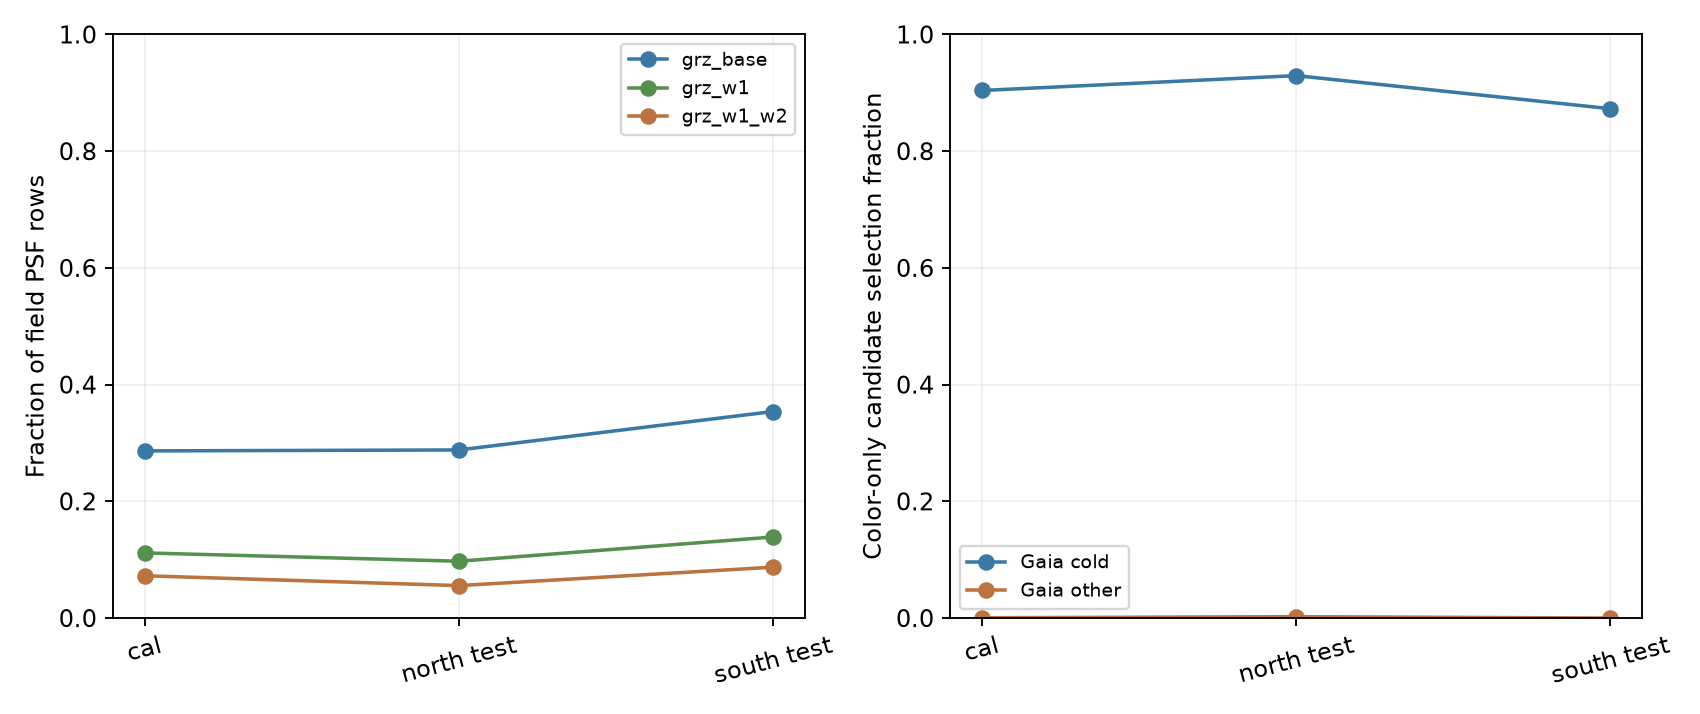
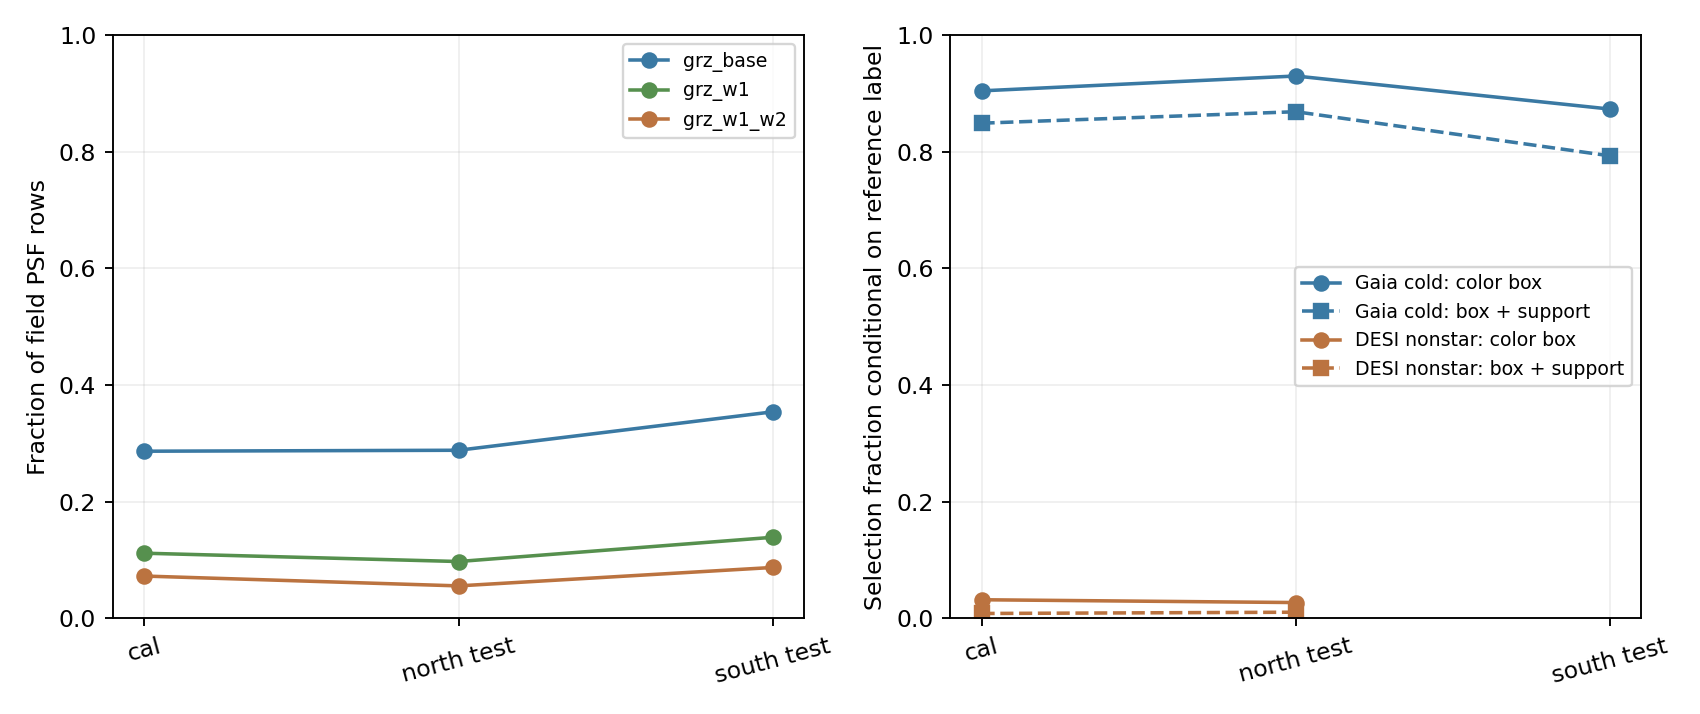
Clarify support and spectral label diagnostic figures

diff --git a/scripts/target_coverage.py b/scripts/target_coverage.py
@@ -2,6 +2,7 @@
 """Measure application input layers and a fixed color-only cold candidate rule."""
 from __future__ import annotations
 
+import argparse
 import json
 from pathlib import Path
 import socket
@@ -116,17 +117,7 @@ def field_result(name, path, rule, tree):
                 "DESI_known_nonstar_color_and_support_leakage": breakdown(nonstar, qualified)["fraction_selected"]}}
 
 
-def main():
-    require_compute()
-    if (OUT / "summary.json").exists():
-        raise FileExistsError(OUT / "summary.json")
-    rule, tree = fixed_rule()
-    summary = {"fixed_from_original_non_test_cold_anchors": rule,
-               "fields": {}, "compute_host": socket.gethostname()}
-    for name, path in FIELD_FILES.items():
-        summary["fields"][name] = field_result(name, path, rule, tree)
-        print(json.dumps({"field": name, **summary["fields"][name]}), flush=True)
-    OUT.mkdir(parents=True, exist_ok=True)
+def plot_summary(summary):
     FIG.mkdir(parents=True, exist_ok=True)
     fields = list(FIELD_FILES)
     labels = ["cal", "north test", "south test"]
@@ -137,20 +128,44 @@ def main():
         axes[0].plot(x, [summary["fields"][f]["input_layers"][key] /
                           summary["fields"][f]["domain_psf_rows"] for f in fields],
                      "o-", label=key, color=color)
-    for label, key, color in (("Gaia cold", "cold_dwarf", "#3a79a3"),
-                               ("Gaia other", "other", "#bb7340")):
-        axes[1].plot(x, [summary["fields"][f]["Gaia_reference"][key]["fraction_selected"]
-                          for f in fields], "o-", label=label, color=color)
+    for label, key, color, style in (
+            ("Gaia cold: color box", "Gaia_cold_color_box_recall", "#3a79a3", "o-"),
+            ("Gaia cold: box + support", "Gaia_cold_color_and_support_recall", "#3a79a3", "s--"),
+            ("DESI nonstar: color box", "DESI_known_nonstar_color_box_leakage", "#bb7340", "o-"),
+            ("DESI nonstar: box + support", "DESI_known_nonstar_color_and_support_leakage", "#bb7340", "s--")):
+        values = [summary["fields"][f]["selection_rates"][key] for f in fields]
+        axes[1].plot(x, [np.nan if v is None else v for v in values], style,
+                     label=label, color=color)
     for ax in axes:
         ax.set_xticks(x, labels, rotation=15)
         ax.set_ylim(0, 1)
         ax.grid(alpha=.2)
         ax.legend(fontsize=8)
     axes[0].set_ylabel("Fraction of field PSF rows")
-    axes[1].set_ylabel("Color-only candidate selection fraction")
+    axes[1].set_ylabel("Selection fraction conditional on reference label")
     fig.tight_layout()
     fig.savefig(FIG / "01_inputs_and_cold_candidate.png", dpi=170)
     plt.close(fig)
+
+
+def main():
+    parser = argparse.ArgumentParser(description=__doc__)
+    parser.add_argument("--plot-only", action="store_true")
+    args = parser.parse_args()
+    if args.plot_only:
+        plot_summary(json.loads(Path("manifests/target_coverage_v2.json").read_text()))
+        return
+    require_compute()
+    if (OUT / "summary.json").exists():
+        raise FileExistsError(OUT / "summary.json")
+    rule, tree = fixed_rule()
+    summary = {"fixed_from_original_non_test_cold_anchors": rule,
+               "fields": {}, "compute_host": socket.gethostname()}
+    for name, path in FIELD_FILES.items():
+        summary["fields"][name] = field_result(name, path, rule, tree)
+        print(json.dumps({"field": name, **summary["fields"][name]}), flush=True)
+    OUT.mkdir(parents=True, exist_ok=True)
+    plot_summary(summary)
     write_json(OUT / "summary.json", summary)
     write_json("manifests/target_coverage_v2.json", summary)
 

diff --git a/scripts/type_diagnostics.py b/scripts/type_diagnostics.py
@@ -2,6 +2,7 @@
 """Audit conditional cold-branch selection by DESI label, color and brightness."""
 from __future__ import annotations
 
+import argparse
 import json
 from pathlib import Path
 import socket
@@ -97,7 +98,41 @@ def field_summary(path, rule, tree):
     return result
 
 
+def plot_summary(summary):
+    FIG.mkdir(parents=True, exist_ok=True)
+    fig, ax = plt.subplots(figsize=(9, 4.5))
+    labels = ("DESI_cool_dwarf", "DESI_cool_giant", "DESI_known_nonstar")
+    x = np.arange(len(FIELDS), dtype=float)
+    for index, name in enumerate(labels):
+        points = [(j, summary["fields"][field]["labels"][name])
+                  for j, field in enumerate(FIELDS)]
+        points = [(j, value) for j, value in points if value["n_labeled"]]
+        px = np.array([j + (index - 1) * .10 for j, _ in points])
+        y = np.array([value["color_box_rate_given_label"] for _, value in points])
+        lower = np.array([value["color_box_rate_wilson95"][0] for _, value in points])
+        upper = np.array([value["color_box_rate_wilson95"][1] for _, value in points])
+        ax.errorbar(px, y, yerr=[y - lower, upper - y], fmt="o", capsize=3,
+                    label=name.replace("DESI_", "").replace("_", " "))
+        for xx, yy, (_, value) in zip(px, y, points):
+            ax.annotate(f'n={value["n_labeled"]}', (xx, yy), xytext=(3, 4),
+                        textcoords="offset points", fontsize=7)
+    ax.set_xticks(x, list(FIELDS))
+    ax.set_ylim(0, 1)
+    ax.set_ylabel("P(color-box selected | DESI label)")
+    ax.grid(alpha=.2)
+    ax.legend(fontsize=8)
+    fig.tight_layout()
+    fig.savefig(FIG / "01_class_conditional_box_rates.png", dpi=170)
+    plt.close(fig)
+
+
 def main():
+    parser = argparse.ArgumentParser(description=__doc__)
+    parser.add_argument("--plot-only", action="store_true")
+    args = parser.parse_args()
+    if args.plot_only:
+        plot_summary(json.loads(Path("manifests/type_diagnostics_dev.json").read_text()))
+        return
     require_compute()
     if (OUT / "summary.json").exists():
         raise FileExistsError(OUT / "summary.json")
@@ -109,22 +144,7 @@ def main():
         print(json.dumps({"field": name,
                           "labels": summary["fields"][name]["labels"]}), flush=True)
     OUT.mkdir(parents=True, exist_ok=True)
-    FIG.mkdir(parents=True, exist_ok=True)
-    fig, ax = plt.subplots(figsize=(9, 4.5))
-    labels = ("DESI_cool_dwarf", "DESI_cool_giant", "DESI_known_nonstar")
-    x = np.arange(len(FIELDS))
-    for name in labels:
-        y = [summary["fields"][field]["labels"][name]["color_box_rate_given_label"]
-             for field in FIELDS]
-        ax.plot(x, y, "o-", label=name)
-    ax.set_xticks(x, list(FIELDS))
-    ax.set_ylim(0, 1)
-    ax.set_ylabel("P(color-box selected | DESI label)")
-    ax.grid(alpha=.2)
-    ax.legend(fontsize=8)
-    fig.tight_layout()
-    fig.savefig(FIG / "01_class_conditional_box_rates.png", dpi=170)
-    plt.close(fig)
+    plot_summary(summary)
     write_json(OUT / "summary.json", summary)
     write_json("manifests/type_diagnostics_dev.json", summary)
 

diff --git a/WORKLOG.md b/WORKLOG.md
@@ -2,6 +2,12 @@
 
 ## 2026-10-28
 
+- Figure review: revised the target-support chart to show both color-box and
+  box-plus-support rates. Revised DESI type chart to show disconnected field
+  estimates, Wilson 95% intervals and label counts; the previous line plot
+  visually implied continuity across fields and hid the 2-object giant bin.
+  Both figures regenerated locally from the frozen small manifests and viewed.
+
 - Calibration diagnosis: first prepared version used a global observed-r
   median across three r-z bins. New calibration field had 1,317/1,276/1,274
   A/B/C anchors, but blue-faint and red-bright groups had only 8–17 objects.
